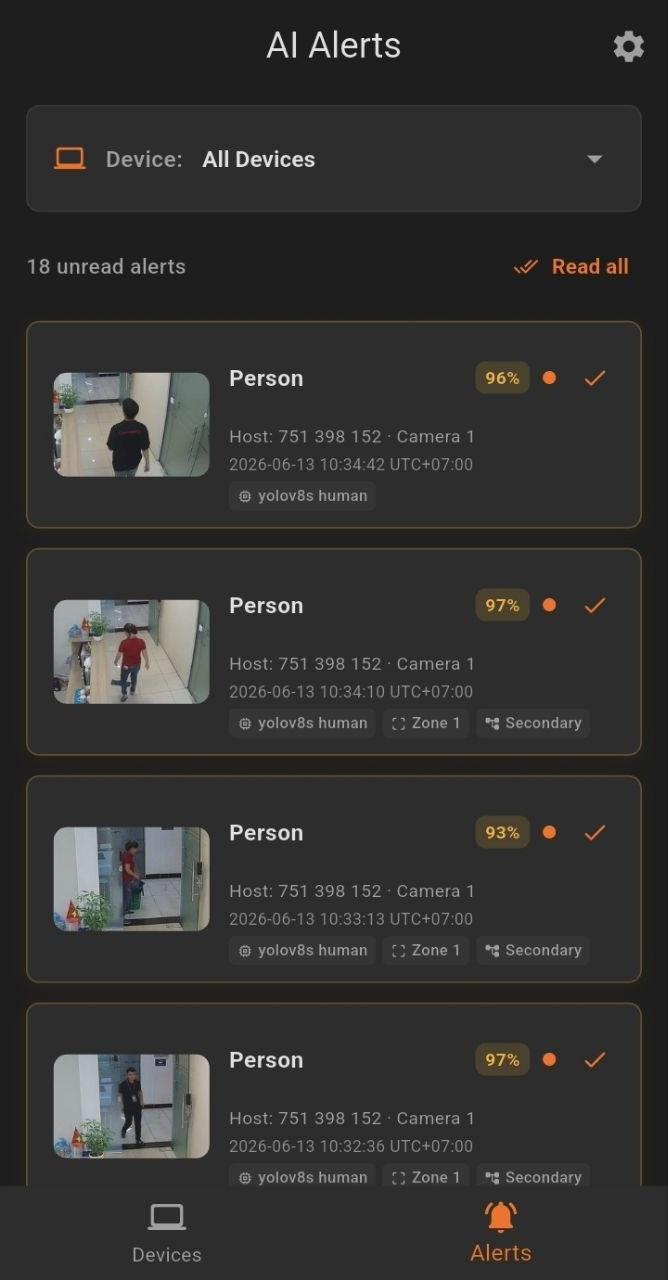
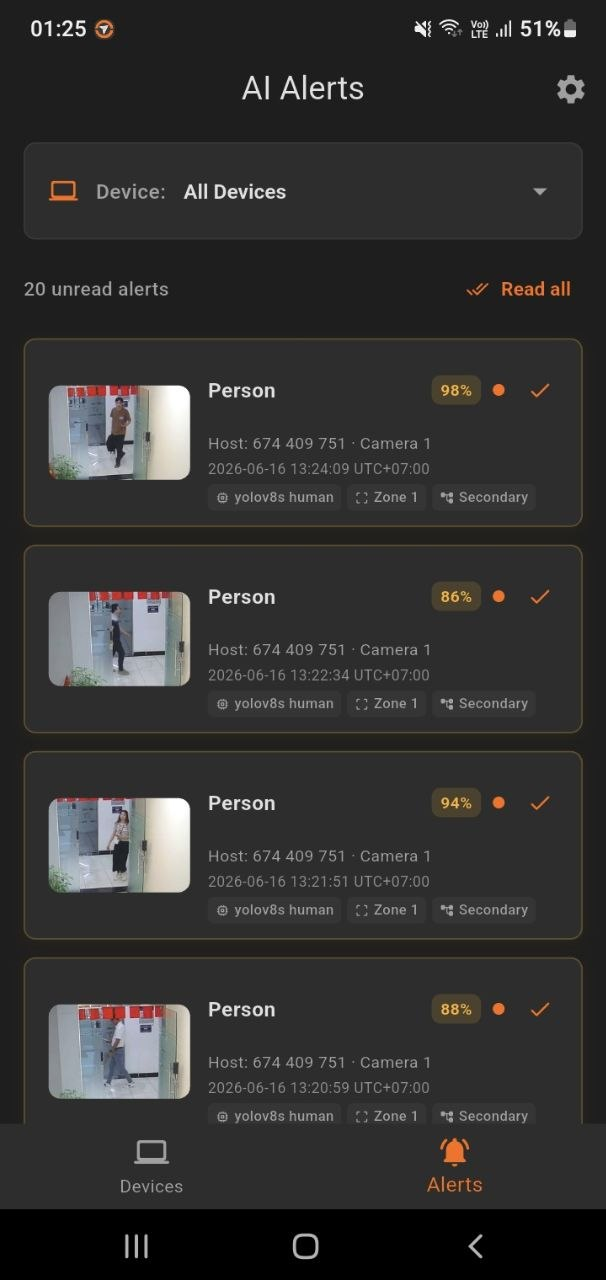
feat: update desktop and mobile app documentation assets with new screenshots and layout adjustments

diff --git a/README_vi.md b/README_vi.md
@@ -44,15 +44,19 @@
 
 ### 💻 Ứng dụng Desktop
 <div align="center">
-  <img src="assets/desktop_dashboard.jpg" alt="Bảng điều khiển & Thông báo Desktop" width="49%">
+  <img src="assets/desktop_dashboard.png" alt="Bảng điều khiển & Thông báo Desktop" width="99%">
+</div>
+<div align="center" style="margin-top: 10px;">
+  <img src="assets/desktop_ai_live.png" alt="Xem trực tiếp AI trên Desktop" width="49%">
   <img src="assets/desktop_ai_events.png" alt="Lịch sử sự kiện AI" width="49%">
 </div>
 
 ### 📱 Ứng dụng Di động
 <div align="center">
-  <img src="assets/mobile_remote_connections.jpg" alt="Danh sách kết nối di động" width="32%">
-  <img src="assets/mobile_ai_alerts.jpg" alt="Danh sách cảnh báo AI" width="32%">
-  <img src="assets/mobile_push_notifications.jpg" alt="Thông báo đẩy trên di động" width="32%">
+  <img src="assets/mobile_remote_connections.jpg" alt="Danh sách kết nối di động" width="24%">
+  <img src="assets/mobile_camera_live.jpg" alt="Xem trực tiếp camera trên di động" width="24%">
+  <img src="assets/mobile_ai_alerts.jpg" alt="Danh sách cảnh báo AI" width="24%">
+  <img src="assets/mobile_push_notifications.jpg" alt="Thông báo đẩy trên di động" width="24%">
 </div>
 
 ---

diff --git a/README.md b/README.md
@@ -44,15 +44,19 @@
 
 ### 💻 Desktop App
 <div align="center">
-  <img src="assets/desktop_dashboard.jpg" alt="Desktop Dashboard & Notifications" width="49%">
+  <img src="assets/desktop_dashboard.png" alt="Desktop Dashboard & Notifications" width="99%">
+</div>
+<div align="center" style="margin-top: 10px;">
+  <img src="assets/desktop_ai_live.png" alt="Desktop AI Live Stream" width="49%">
   <img src="assets/desktop_ai_events.png" alt="AI Events History" width="49%">
 </div>
 
 ### 📱 Mobile App
 <div align="center">
-  <img src="assets/mobile_remote_connections.jpg" alt="Mobile Remote Connections" width="32%">
-  <img src="assets/mobile_ai_alerts.jpg" alt="Mobile AI Alerts" width="32%">
-  <img src="assets/mobile_push_notifications.jpg" alt="Mobile Push Notifications" width="32%">
+  <img src="assets/mobile_remote_connections.jpg" alt="Mobile Remote Connections" width="24%">
+  <img src="assets/mobile_camera_live.jpg" alt="Mobile Camera Live Stream" width="24%">
+  <img src="assets/mobile_ai_alerts.jpg" alt="Mobile AI Alerts" width="24%">
+  <img src="assets/mobile_push_notifications.jpg" alt="Mobile Push Notifications" width="24%">
 </div>
 
 ---
